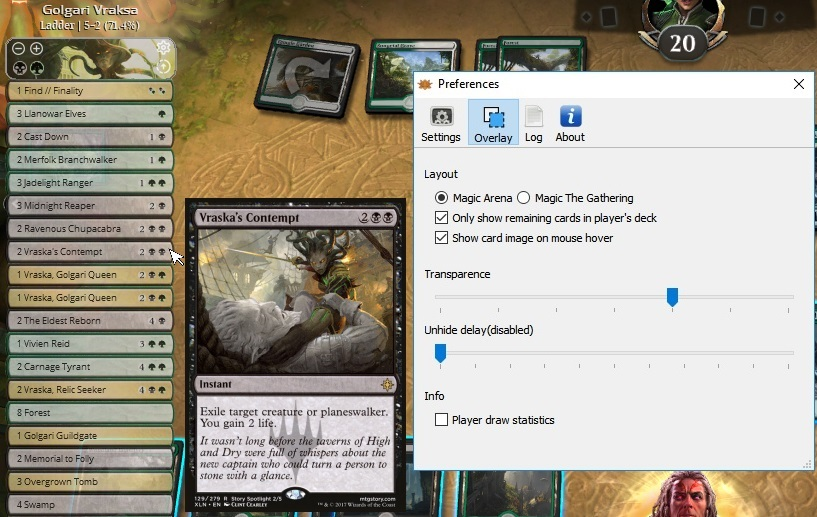
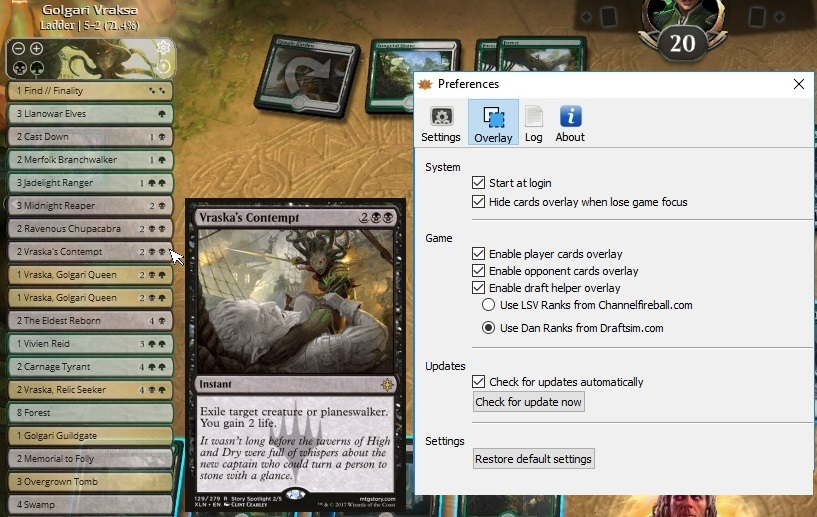
Update Lotus Tracker page

Changed region(s): [[0.5202, 0.3095, 0.9792, 0.7737], [0.4896, 0.8665, 1.0, 0.9594], [0.5202, 0.7118, 0.7956, 0.8665]]

diff --git a/src/pages/LotusTracker.vue b/src/pages/LotusTracker.vue
@@ -35,7 +35,7 @@
                 <ul>
                   <li>
                     <span class="subheading font-weight-bold mt-3">Basic features</span><br/>
-                    <i class="caption">Tray-icon, Auto-Start with System, Auto-Update, Auto-Hide when game lose focus</i>
+                    <i class="caption">Tray-icon, Auto-Start with System, Auto-Update</i>
                   </li>
                   <li>
                     <span class="subheading font-weight-bold mt-3">Player data sync</span><br/>
@@ -54,6 +54,10 @@
                     <i class="caption">For events, it also means the event's wins/losses</i>
                   </li>
                   <li>
+                    <span class="subheading font-weight-bold mt-3">Player deck with sideboard</span><br/>
+                    <i class="caption">In Bo3 matches, show updated deck pos sideboarding</i>
+                  </li>
+                  <li>
                     <span class="subheading font-weight-bold mt-3">Opponent cards overlay</span><br/>
                     <i class="caption">Based on cards used</i>
                   </li>
@@ -64,7 +68,7 @@
                 </ul>
               </v-layout>
             </v-flex>
-            <v-flex xs12 sm6>
+            <v-flex class="pt-4" xs12 sm6>
               <a class="mt-2 ml-2" href="static/images/lotus_tracker_overlay.jpg" target="_blank">
                 <img src="static/images/lotus_tracker_overlay.jpg" style="width: 100%;"/>
               </a>
@@ -74,10 +78,6 @@
             <v-flex xs12 sm6>
               <v-layout class="mt-2_5" column nowrap>
                 <ul>
-                  <li>
-                    <span class="subheading font-weight-bold mt-3">Show card image</span><br/>
-                    <i class="caption">On mouse Hover</i>
-                  </li>
                   <li>
                     <span class="subheading font-weight-bold mt-3">Configurable zoom</span><br/>
                     <i class="caption">5 levels</i>
@@ -100,15 +100,52 @@
                     <i class="caption">Show/Hide deck cards with 0 copies on deck</i>
                   </li>
                   <li>
+                    <span class="subheading font-weight-bold mt-3">Hide when tabbing MTGA</span><br/>
+                    <i class="caption">Auto-Hide when game lose focus</i>
+                  </li>
+                </ul>
+              </v-layout>
+            </v-flex>
+            <v-flex class="pt-2" xs12 sm6>
+              <a href="static/images/lotus_tracker_preferences.jpg" target="_blank">
+                <img class="mt-2" src="static/images/lotus_tracker_preferences.jpg" style="width: 100%;"/>
+              </a>
+            </v-flex>
+          </v-layout>
+          <v-layout class="mt-4" row wrap>
+            <v-flex xs12 sm6>
+              <v-layout class="mt-2_5" column nowrap>
+                <ul>
+                  <li>
                     <span class="subheading font-weight-bold mt-3">Player draw statistics</span><br/>
                     <i class="caption">Percent chances to draw a land or card by remaining qtd</i>
+                  </li>
+                  <li>
+                    <span class="subheading font-weight-bold mt-3">Show card image</span><br/>
+                    <i class="caption">On mouse Hover</i>
+                  </li>
+                  <li>
+                    <span class="subheading font-weight-bold mt-3">Draft Helper</span><br/>
+                    <i class="caption">Show card tiers while drafting</i>
+                  </li>
+                  <li>
+                    <span class="subheading font-weight-bold mt-3">LSV Draft Tiers</span><br/>
+                    <i class="caption">Cards ranks and commentary by LSV from <a href="https://www.channelfireball.com/tag/limited-set-review/">ChannelFireball.com</a></i>
+                  </li>
+                  <li>
+                    <span class="subheading font-weight-bold mt-3">DraftSim Draft Tiers</span><br/>
+                    <i class="caption">Cards ranks by Dan from <a href="https://draftsim.com/">Draftsim.com</a></i>
+                  </li>
+                  <li>
+                    <span class="subheading font-weight-bold mt-3">Collection Info</span><br/>
+                    <i class="caption">Show card quantity in collection (x/4)</i>
                   </li>
                 </ul>
               </v-layout>
             </v-flex>
             <v-flex xs12 sm6>
-              <a href="static/images/lotus_tracker_preferences.jpg" target="_blank">
-                <img class="mt-2" src="static/images/lotus_tracker_preferences.jpg" style="width: 100%;"/>
+              <a href="static/images/lotus_tracker_draft.jpg" target="_blank">
+                <img class="mt-2" src="static/images/lotus_tracker_draft.jpg" style="width: 100%;"/>
               </a>
             </v-flex>
           </v-layout>
@@ -134,7 +171,7 @@ export default {
   },
   data () {
     return {
-      lotusTrackerWindows: 'https://github.com/edipo2s/LotusTracker/releases/download/v1.1.0/Lotus.Tracker.1.1.0.zip'
+      lotusTrackerWindows: 'https://github.com/edipo2s/LotusTracker/releases/download/v1.2.0/Lotus.Tracker.1.2.0.zip'
     }
   },
   created () {
